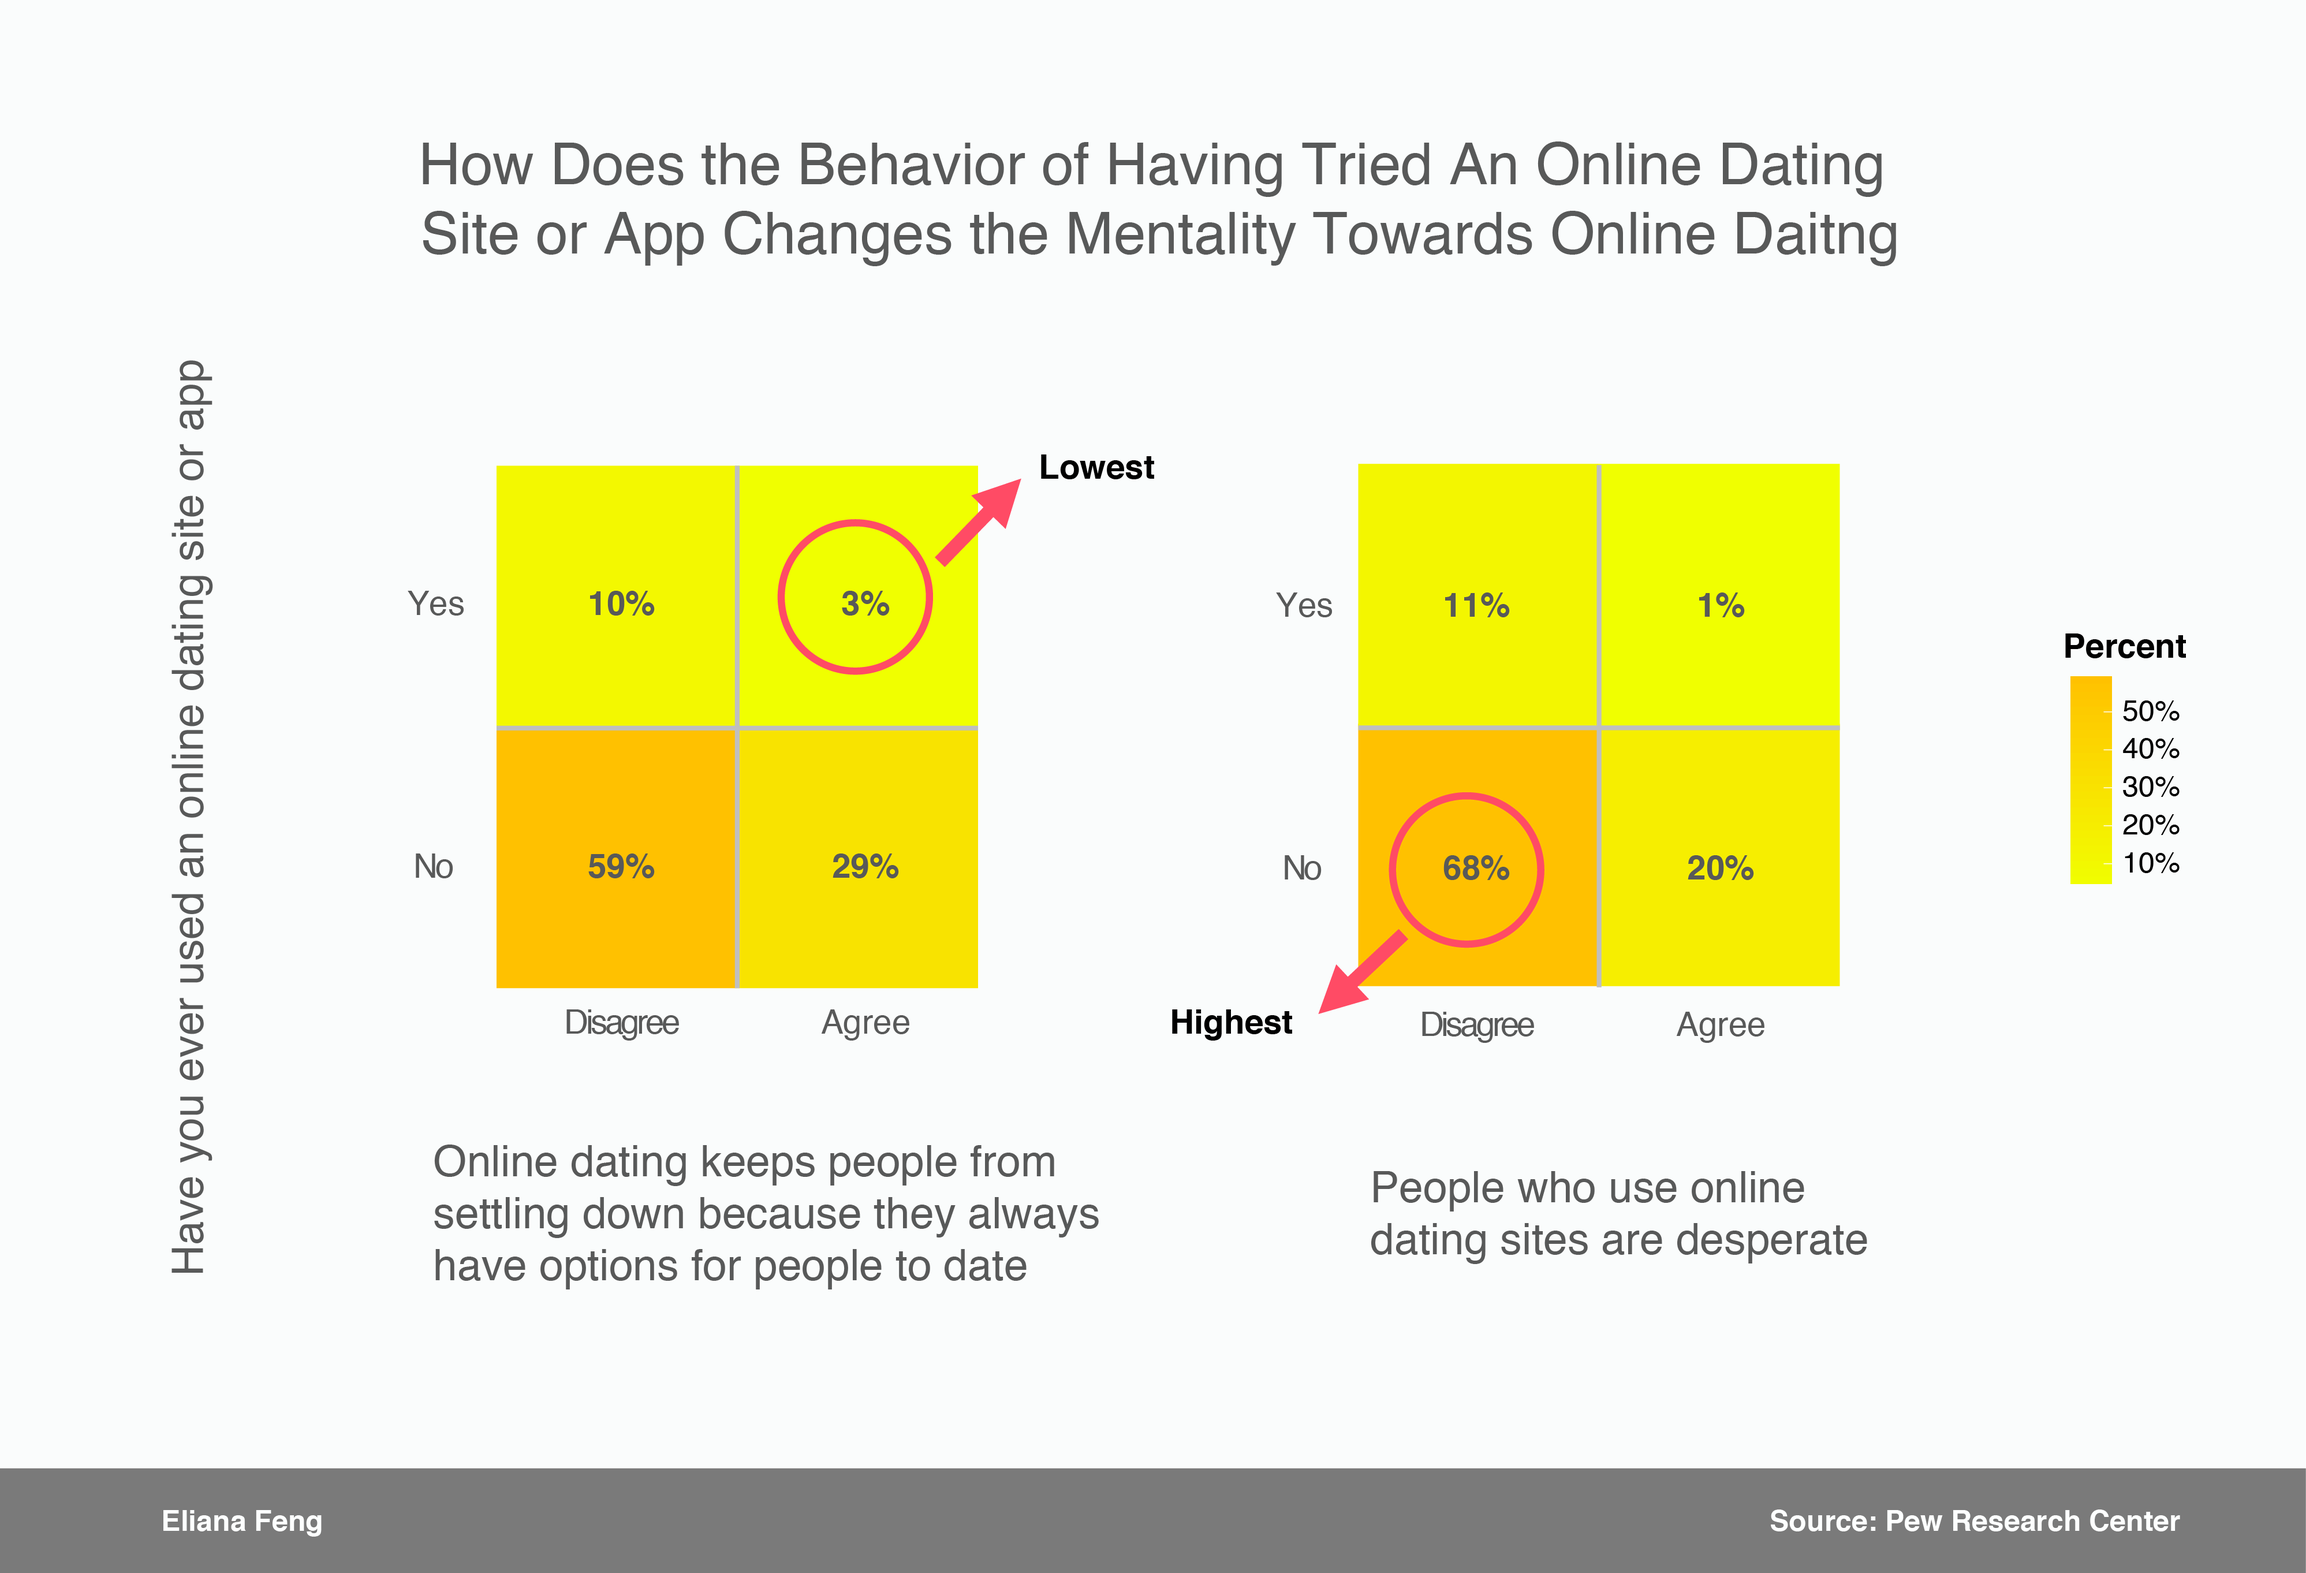
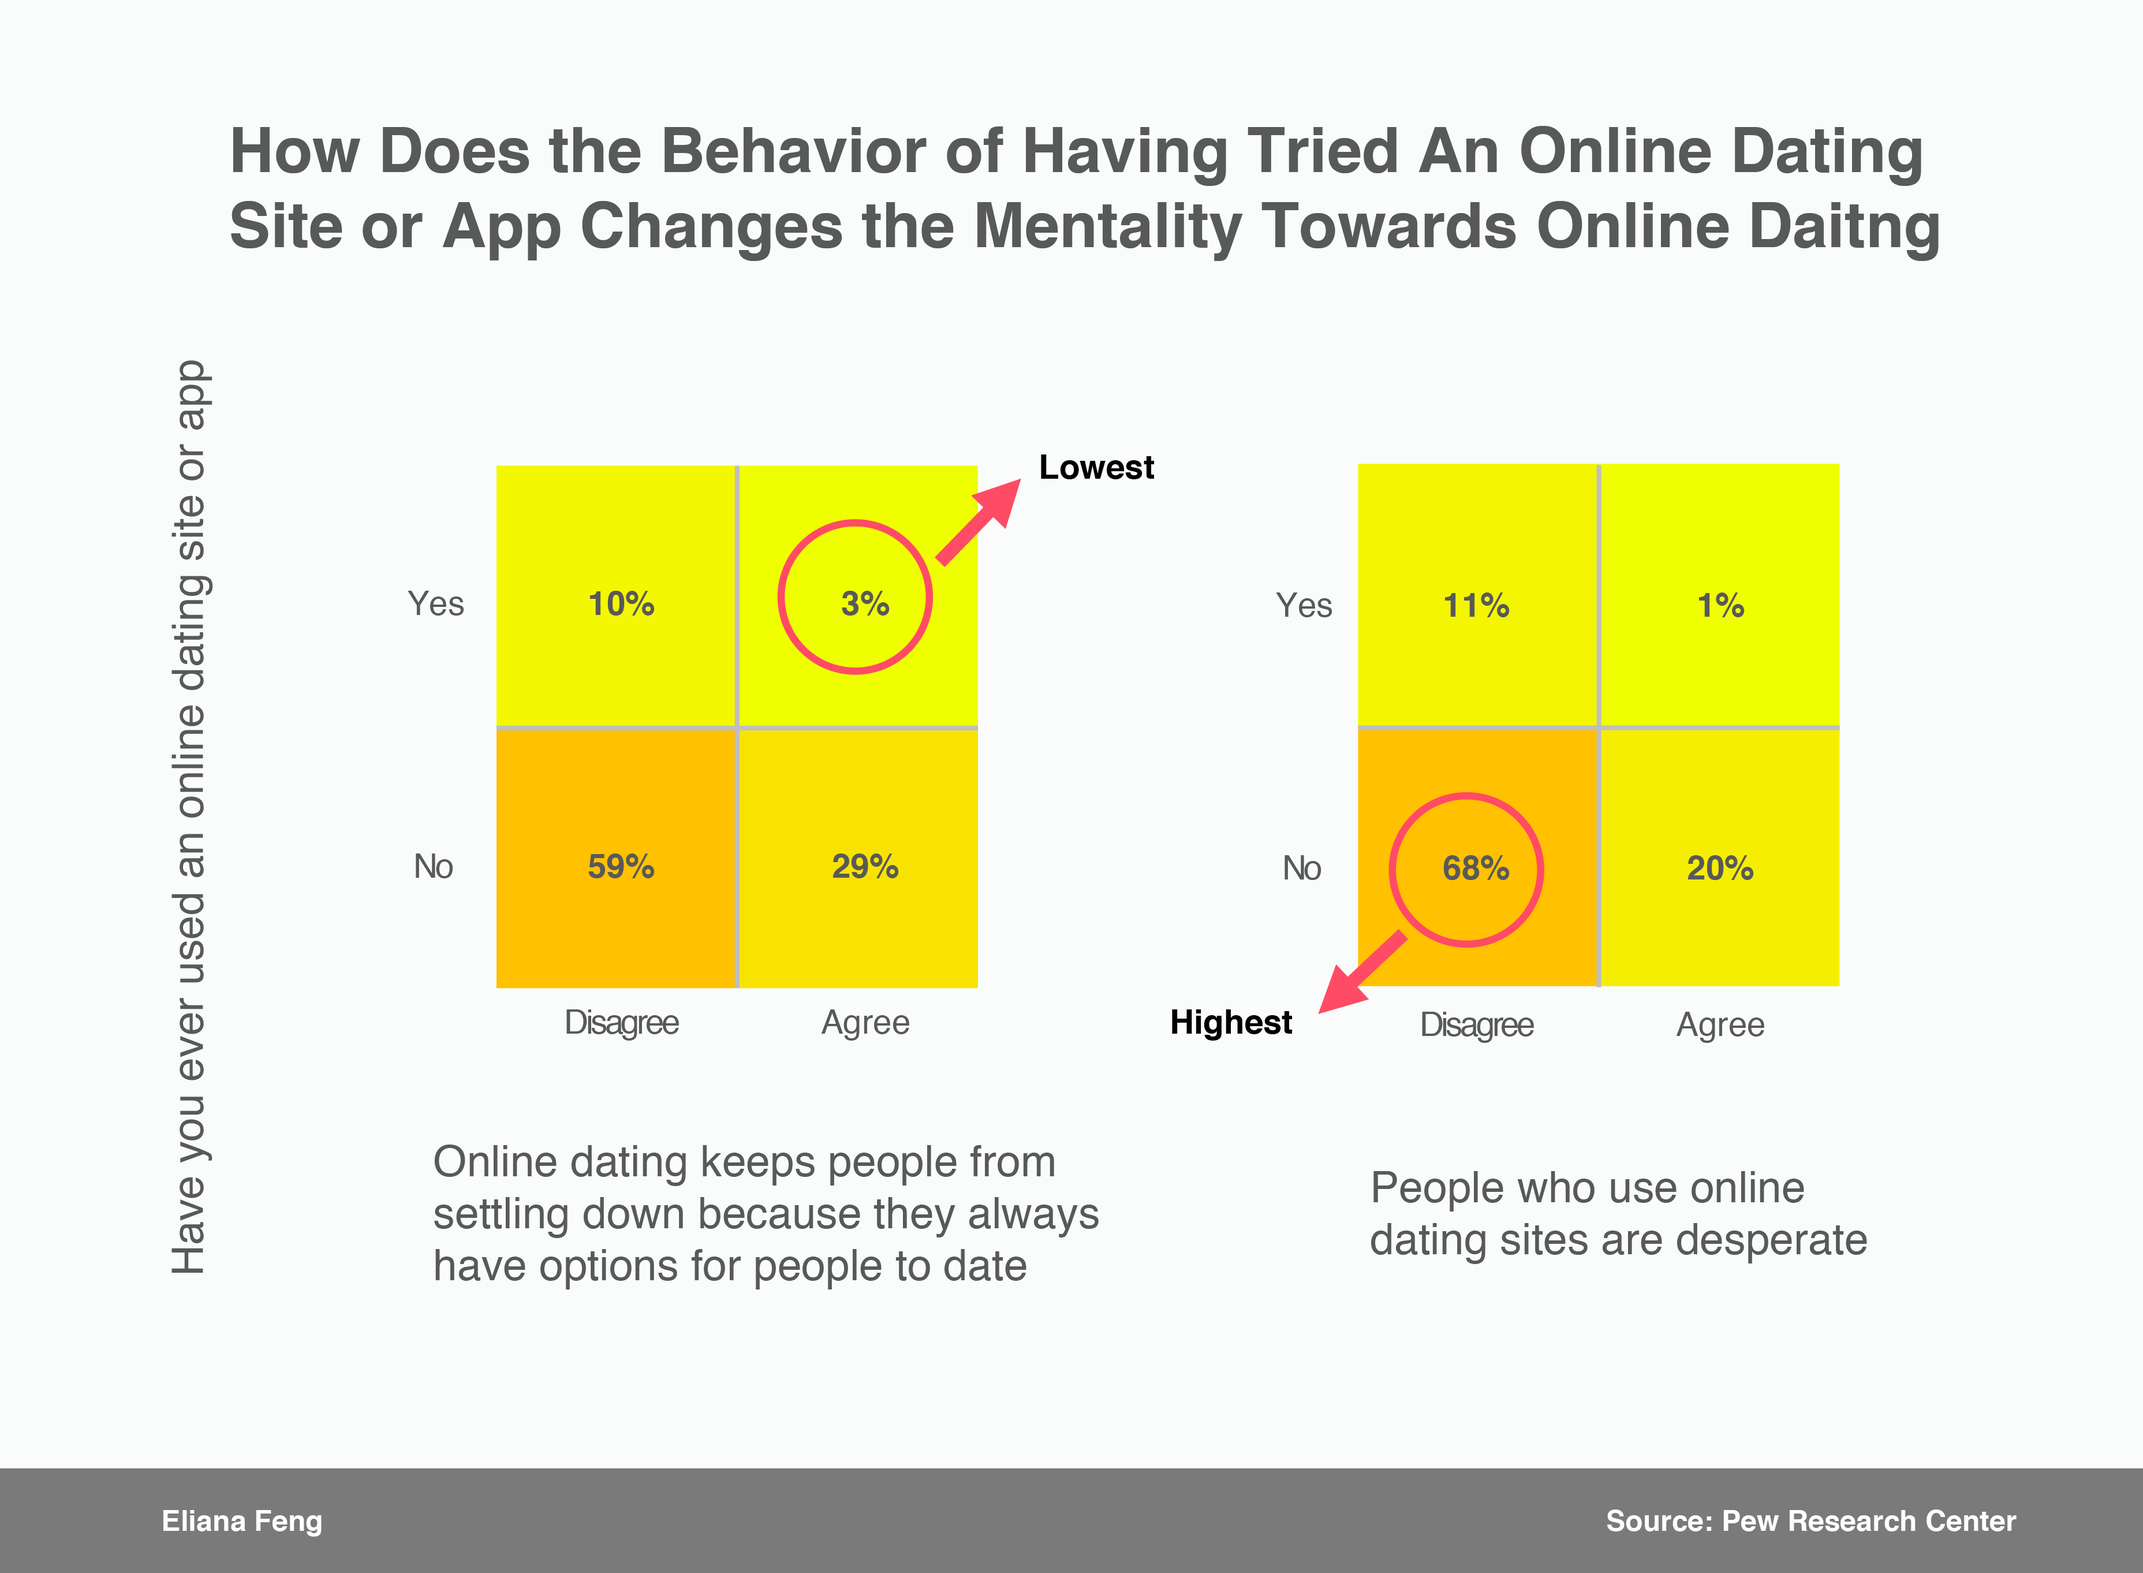
add index file

diff --git a/index.html b/index.html
@@ -9,6 +9,8 @@
   <meta name="description" content="">
   <meta name="author" content="">
 
+  <link rel = "stylesheet" type ="text/css" href="style.css">
+
 </head>
 
 <body>

diff --git a/style.css b/style.css
@@ -1,4 +1,4 @@
-img{
+h1,img{
 	display:block;
 	margin:0 auto;
 	
